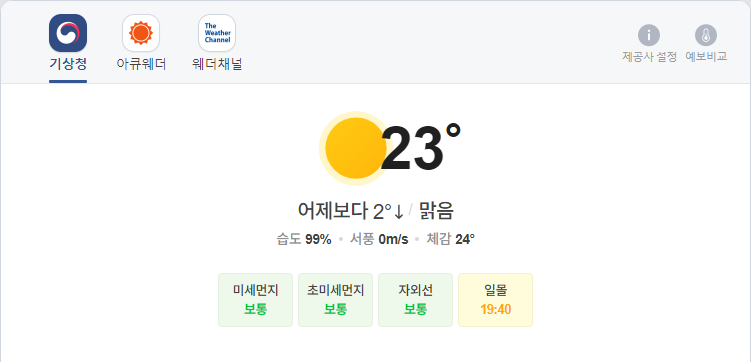
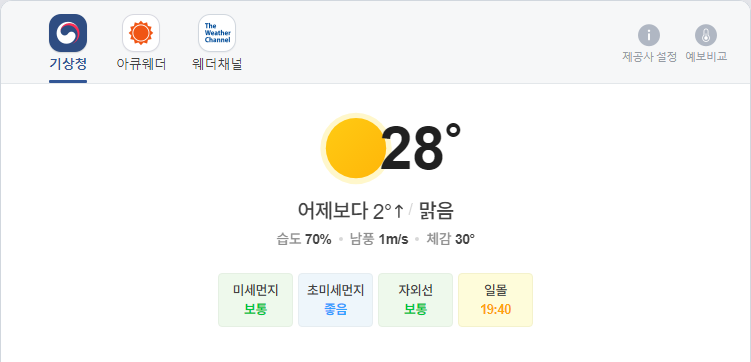
update result

diff --git a/README.md b/README.md
@@ -1,5 +1,5 @@
-##  2021-08-03 05:55:24   화요일 
-##### 날씨   -   어제보다 2° 낮아요맑음  
+##  2021-08-03 09:17:23   화요일 
+##### 날씨   -   어제보다 2° 높아요맑음  
 <center><img src="../img/naver_weather_week.png"></center>
 ----
 ----
@@ -17,46 +17,46 @@
 <tr align = "right" > <td>NASDAQ</td><td>14,681.07</td><td>8.39</td><td><font size="3" color="red" >0.06%</font></td><td><font size="3" color="black">0</font></td><td><font size="3" color="black">0</font></td><td>0</td>  </tr>
 <tr align = "right" > <td>S&P</td><td>4,387.16</td><td>-8.1</td><td><font size="3" color="blue" >-0.18%</font></td><td><font size="3" color="black">0</font></td><td><font size="3" color="black">0</font></td><td>0</td>  </tr>
 <tr align = "right" > <td>SHANHAI</td><td>3,464.29</td><td>66.93</td><td><font size="3" color="red" >1.97%</font></td><td><font size="3" color="black">0</font></td><td><font size="3" color="black">0</font></td><td>0</td>  </tr>
-<tr align = "right" > <td>INDIA</td><td>52,950.63</td><td>297.56</td><td><font size="3" color="red" >0.57%</font></td><td><font size="3" color="black">0</font></td><td><font size="3" color="black">0</font></td><td>0</td>  </tr>
+<tr align = "right" > <td>INDIA</td><td>52,950.63</td><td>363.79</td><td><font size="3" color="red" >0.69%</font></td><td><font size="3" color="black">0</font></td><td><font size="3" color="black">0</font></td><td>0</td>  </tr>
 </table>
 ----
 ##### 시장
 <table border="1" bordercolor="blue" align = "center" >
 <tr align = "right" > <td>Item</td><td>Price</td><td>Diff</td><td>Rate</td><td>Buy</td><td>Sell</td><td>...</td>  </tr>
-<tr align = "right" > <td>USD</td><td>1,151.0</td><td>-1.0</td><td><font size="3" color="blue">-0.09%</font></td><td><font size="3" color="black">1,110</font></td><td><font size="3" color="black">0</font></td><td>0</td>  </tr>
-<tr align = "right" > <td>WTI</td><td>73.95</td><td>0.33</td><td><font size="3" color="red">0.44%</font></td><td><font size="3" color="black">29.0</font></td><td><font size="3" color="black">0</font></td><td>0</td>  </tr>
-<tr align = "right" > <td>GOLD</td><td>1,812.0</td><td>-18.6</td><td><font size="3" color="blue">-1.01%</font></td><td><font size="3" color="black">0</font></td><td><font size="3" color="black">0</font></td><td>0</td>  </tr>
+<tr align = "right" > <td>USD</td><td>1,148.0</td><td>-2.1</td><td><font size="3" color="blue">-0.18%</font></td><td><font size="3" color="black">1,110</font></td><td><font size="3" color="black">0</font></td><td>0</td>  </tr>
+<tr align = "right" > <td>WTI</td><td>71.26</td><td>-2.69</td><td><font size="3" color="blue">-3.63%</font></td><td><font size="3" color="black">29.0</font></td><td><font size="3" color="black">0</font></td><td>0</td>  </tr>
+<tr align = "right" > <td>GOLD</td><td>1,818.0</td><td>5.5</td><td><font size="3" color="red">0.3%</font></td><td><font size="3" color="black">0</font></td><td><font size="3" color="black">0</font></td><td>0</td>  </tr>
 </table>
 ----
 ##### 주가
 <table border="1" bordercolor="blue" align = "center" >
 <tr align = "right" > <td>Item</td><td>Price</td><td>Diff</td><td>Rate</td><td>Purchased</td><td>Sell</td><td>Buy</td>  </tr>
-<tr align = "right" > <td>한국 전력</td><td>25,400</td><td>500</td><td><font size="3" color="red">2.01%</font></td><td>25,720</td><td><font size="3" color="black">27,700</font></td><td><font size="3" color="black">20,700</font></td>  </tr>
-<tr align = "right" > <td>삼성엔지니어.</td><td>23,750</td><td>400</td><td><font size="3" color="red">1.71%</font></td><td>18,935</td><td><font size="3" color="black">20,000</font></td><td><font size="3" color="black">8,000</font></td>  </tr>
-<tr align = "right" > <td>CJ CGV</td><td>29,200</td><td>-250</td><td><font size="3" color="blue">-0.85%</font></td><td>34,895</td><td><font size="3" color="black">36,000</font></td><td><font size="3" color="black">0</font></td>  </tr>
-<tr align = "right" > <td>아모레퍼시픽</td><td>220,500</td><td>-1,000</td><td><font size="3" color="blue">-0.45%</font></td><td>235,350</td><td><font size="3" color="black">240,000</font></td><td><font size="3" color="black">130,000</font></td>  </tr>
-<tr align = "right" > <td>한화</td><td>29,950</td><td>100</td><td><font size="3" color="red">0.34%</font></td><td>25,550</td><td><font size="3" color="black">26,250</font></td><td><font size="3" color="black">26,250</font></td>  </tr>
-<tr align = "right" > <td>NAVER</td><td>433,500</td><td>0</td><td><font size="3" color="black">0.0%</font></td><td>147,200</td><td><font size="3" color="black">386,000</font></td><td><font size="3" color="black">286,000</font></td>  </tr>
-<tr align = "right" > <td>LG 화학우</td><td>388,000</td><td>5,500</td><td><font size="3" color="red">1.44%</font></td><td>202,490</td><td><font size="3" color="black">384,000</font></td><td><font size="3" color="black">384,000</font></td>  </tr>
-<tr align = "right" > <td>스튜디오드래.</td><td>92,100</td><td>-100</td><td><font size="3" color="blue">-0.11%</font></td><td>81,243</td><td><font size="3" color="black">85,200</font></td><td><font size="3" color="black">85,200</font></td>  </tr>
-<tr align = "right" > <td>QV미국IT</td><td>31,490</td><td>-80</td><td><font size="3" color="blue">-0.25%</font></td><td>0</td><td><font size="3" color="black">30,000</font></td><td><font size="3" color="black">20,000</font></td>  </tr>
-<tr align = "right" > <td>삼성 전자우</td><td>73,100</td><td>1,000</td><td><font size="3" color="red">1.39%</font></td><td>60,675</td><td><font size="3" color="black">76,000</font></td><td><font size="3" color="black">55,000</font></td>  </tr>
-<tr align = "right" > <td>LS</td><td>71,100</td><td>-1,600</td><td><font size="3" color="blue">-2.2%</font></td><td>71,900</td><td><font size="3" color="black">82,000</font></td><td><font size="3" color="black">60,000</font></td>  </tr>
-<tr align = "right" > <td>한화에어로스.</td><td>54,000</td><td>2,200</td><td><font size="3" color="red">4.25%</font></td><td>25,700</td><td><font size="3" color="black">30,000</font></td><td><font size="3" color="black">24,000</font></td>  </tr>
-<tr align = "right" > <td>한화시스템.</td><td>16,800</td><td>-150</td><td><font size="3" color="blue">-0.88%</font></td><td>16,875</td><td><font size="3" color="black">30,000</font></td><td><font size="3" color="black">14,000</font></td>  </tr>
-<tr align = "right" > <td>카카오</td><td>146,000</td><td>-1,000</td><td><font size="3" color="blue">-0.68%</font></td><td>405,500</td><td><font size="3" color="black">440,000</font></td><td><font size="3" color="orangered">400,000</font></td>  </tr>
-<tr align = "right" > <td>호텔 신라</td><td>92,500</td><td>-1,000</td><td><font size="3" color="blue">-1.07%</font></td><td>88,650</td><td><font size="3" color="black">100,000</font></td><td><font size="3" color="black">70,000</font></td>  </tr>
-<tr align = "right" > <td>S-Oil</td><td>98,400</td><td>100</td><td><font size="3" color="red">0.1%</font></td><td>62,842</td><td><font size="3" color="black">100,000</font></td><td><font size="3" color="black">50,000</font></td>  </tr>
-<tr align = "right" > <td>LG전자</td><td>156,500</td><td>-1,000</td><td><font size="3" color="blue">-0.63%</font></td><td>82,022</td><td><font size="3" color="black">100,000</font></td><td><font size="3" color="black">60,000</font></td>  </tr>
-<tr align = "right" > <td>KT&G</td><td>82,600</td><td>300</td><td><font size="3" color="red">0.36%</font></td><td>79,700</td><td><font size="3" color="black">100,000</font></td><td><font size="3" color="black">70,000</font></td>  </tr>
-<tr align = "right" > <td>지역난방공사</td><td>42,550</td><td>200</td><td><font size="3" color="red">0.47%</font></td><td>43,590</td><td><font size="3" color="black">60,000</font></td><td><font size="3" color="black">30,000</font></td>  </tr>
-<tr align = "right" > <td>맥쿼리인프라</td><td>12,300</td><td>0</td><td><font size="3" color="black">0.0%</font></td><td>12,577</td><td><font size="3" color="black">30,000</font></td><td><font size="3" color="black">10,000</font></td>  </tr>
-<tr align = "right" > <td>KOEDX은행</td><td>7,255</td><td>-55</td><td><font size="3" color="blue">-0.75%</font></td><td>7,578</td><td><font size="3" color="black">8,825</font></td><td><font size="3" color="black">6,225</font></td>  </tr>
-<tr align = "right" > <td>글로벌럭셔리</td><td>18,255</td><td>105</td><td><font size="3" color="red">0.58%</font></td><td>16,302</td><td><font size="3" color="black">20,000</font></td><td><font size="3" color="black">10,000</font></td>  </tr>
-<tr align = "right" > <td>TIRGER200건설</td><td>3,335</td><td>-10</td><td><font size="3" color="blue">-0.3%</font></td><td>3,440</td><td><font size="3" color="black">4,000</font></td><td><font size="3" color="black">3,000</font></td>  </tr>
-<tr align = "right" > <td>KODEXK미래차</td><td>10,815</td><td>10</td><td><font size="3" color="red">0.09%</font></td><td>10,955</td><td><font size="3" color="black">20,000</font></td><td><font size="3" color="black">10,000</font></td>  </tr>
-<tr align = "right" > <td>TIGER글로벌BBIG</td><td>11,595</td><td>230</td><td><font size="3" color="red">2.02%</font></td><td>11,020</td><td><font size="3" color="black">20,000</font></td><td><font size="3" color="black">10,000</font></td>  </tr>
-<tr align = "right" > <td>TIGER퓨처모빌리티</td><td>11,000</td><td>0</td><td><font size="3" color="black">0.0%</font></td><td>10,695</td><td><font size="3" color="black">20,000</font></td><td><font size="3" color="black">10,000</font></td>  </tr>
-<tr align = "right" > <td>한국금융지주</td><td>95,900</td><td>0</td><td><font size="3" color="black">0.0%</font></td><td>0</td><td><font size="3" color="black">82,000</font></td><td><font size="3" color="black">60,000</font></td>  </tr>
+<tr align = "right" > <td>한국 전력</td><td>25,250</td><td>-150</td><td><font size="3" color="blue">-0.59%</font></td><td>25,720</td><td><font size="3" color="black">27,700</font></td><td><font size="3" color="black">20,700</font></td>  </tr>
+<tr align = "right" > <td>삼성엔지니어.</td><td>23,750</td><td>0</td><td><font size="3" color="black">0.0%</font></td><td>18,935</td><td><font size="3" color="black">20,000</font></td><td><font size="3" color="black">8,000</font></td>  </tr>
+<tr align = "right" > <td>CJ CGV</td><td>29,100</td><td>-100</td><td><font size="3" color="blue">-0.34%</font></td><td>34,895</td><td><font size="3" color="black">36,000</font></td><td><font size="3" color="black">0</font></td>  </tr>
+<tr align = "right" > <td>아모레퍼시픽</td><td>219,000</td><td>-1,500</td><td><font size="3" color="blue">-0.68%</font></td><td>235,350</td><td><font size="3" color="black">240,000</font></td><td><font size="3" color="black">130,000</font></td>  </tr>
+<tr align = "right" > <td>한화</td><td>30,050</td><td>100</td><td><font size="3" color="red">0.33%</font></td><td>25,550</td><td><font size="3" color="black">26,250</font></td><td><font size="3" color="black">26,250</font></td>  </tr>
+<tr align = "right" > <td>NAVER</td><td>427,500</td><td>-6,000</td><td><font size="3" color="blue">-1.38%</font></td><td>147,200</td><td><font size="3" color="black">386,000</font></td><td><font size="3" color="black">286,000</font></td>  </tr>
+<tr align = "right" > <td>LG 화학우</td><td>389,000</td><td>1,000</td><td><font size="3" color="red">0.26%</font></td><td>202,490</td><td><font size="3" color="black">384,000</font></td><td><font size="3" color="black">384,000</font></td>  </tr>
+<tr align = "right" > <td>스튜디오드래.</td><td>91,900</td><td>-200</td><td><font size="3" color="blue">-0.22%</font></td><td>81,243</td><td><font size="3" color="black">85,200</font></td><td><font size="3" color="black">85,200</font></td>  </tr>
+<tr align = "right" > <td>QV미국IT</td><td>31,305</td><td>-185</td><td><font size="3" color="blue">-0.59%</font></td><td>0</td><td><font size="3" color="black">30,000</font></td><td><font size="3" color="black">20,000</font></td>  </tr>
+<tr align = "right" > <td>삼성 전자우</td><td>73,900</td><td>800</td><td><font size="3" color="red">1.09%</font></td><td>60,675</td><td><font size="3" color="black">76,000</font></td><td><font size="3" color="black">55,000</font></td>  </tr>
+<tr align = "right" > <td>LS</td><td>70,700</td><td>-400</td><td><font size="3" color="blue">-0.56%</font></td><td>71,900</td><td><font size="3" color="black">82,000</font></td><td><font size="3" color="black">60,000</font></td>  </tr>
+<tr align = "right" > <td>한화에어로스.</td><td>53,300</td><td>-700</td><td><font size="3" color="blue">-1.3%</font></td><td>25,700</td><td><font size="3" color="black">30,000</font></td><td><font size="3" color="black">24,000</font></td>  </tr>
+<tr align = "right" > <td>한화시스템.</td><td>16,750</td><td>-50</td><td><font size="3" color="blue">-0.3%</font></td><td>16,875</td><td><font size="3" color="black">30,000</font></td><td><font size="3" color="black">14,000</font></td>  </tr>
+<tr align = "right" > <td>카카오</td><td>143,000</td><td>-3,000</td><td><font size="3" color="blue">-2.05%</font></td><td>405,500</td><td><font size="3" color="black">440,000</font></td><td><font size="3" color="orangered">400,000</font></td>  </tr>
+<tr align = "right" > <td>호텔 신라</td><td>92,300</td><td>-200</td><td><font size="3" color="blue">-0.22%</font></td><td>88,650</td><td><font size="3" color="black">100,000</font></td><td><font size="3" color="black">70,000</font></td>  </tr>
+<tr align = "right" > <td>S-Oil</td><td>97,000</td><td>-1,400</td><td><font size="3" color="blue">-1.42%</font></td><td>62,842</td><td><font size="3" color="black">100,000</font></td><td><font size="3" color="black">50,000</font></td>  </tr>
+<tr align = "right" > <td>LG전자</td><td>157,000</td><td>500</td><td><font size="3" color="red">0.32%</font></td><td>82,022</td><td><font size="3" color="black">100,000</font></td><td><font size="3" color="black">60,000</font></td>  </tr>
+<tr align = "right" > <td>KT&G</td><td>82,500</td><td>-100</td><td><font size="3" color="blue">-0.12%</font></td><td>79,700</td><td><font size="3" color="black">100,000</font></td><td><font size="3" color="black">70,000</font></td>  </tr>
+<tr align = "right" > <td>지역난방공사</td><td>42,450</td><td>-100</td><td><font size="3" color="blue">-0.24%</font></td><td>43,590</td><td><font size="3" color="black">60,000</font></td><td><font size="3" color="black">30,000</font></td>  </tr>
+<tr align = "right" > <td>맥쿼리인프라</td><td>12,350</td><td>50</td><td><font size="3" color="red">0.41%</font></td><td>12,577</td><td><font size="3" color="black">30,000</font></td><td><font size="3" color="black">10,000</font></td>  </tr>
+<tr align = "right" > <td>KOEDX은행</td><td>7,220</td><td>-35</td><td><font size="3" color="blue">-0.48%</font></td><td>7,578</td><td><font size="3" color="black">8,825</font></td><td><font size="3" color="black">6,225</font></td>  </tr>
+<tr align = "right" > <td>글로벌럭셔리</td><td>18,335</td><td>80</td><td><font size="3" color="red">0.44%</font></td><td>16,302</td><td><font size="3" color="black">20,000</font></td><td><font size="3" color="black">10,000</font></td>  </tr>
+<tr align = "right" > <td>TIRGER200건설</td><td>3,325</td><td>-10</td><td><font size="3" color="blue">-0.3%</font></td><td>3,440</td><td><font size="3" color="black">4,000</font></td><td><font size="3" color="black">3,000</font></td>  </tr>
+<tr align = "right" > <td>KODEXK미래차</td><td>10,840</td><td>25</td><td><font size="3" color="red">0.23%</font></td><td>10,955</td><td><font size="3" color="black">20,000</font></td><td><font size="3" color="black">10,000</font></td>  </tr>
+<tr align = "right" > <td>TIGER글로벌BBIG</td><td>11,580</td><td>-15</td><td><font size="3" color="blue">-0.13%</font></td><td>11,020</td><td><font size="3" color="black">20,000</font></td><td><font size="3" color="black">10,000</font></td>  </tr>
+<tr align = "right" > <td>TIGER퓨처모빌리티</td><td>11,040</td><td>40</td><td><font size="3" color="red">0.36%</font></td><td>10,695</td><td><font size="3" color="black">20,000</font></td><td><font size="3" color="black">10,000</font></td>  </tr>
+<tr align = "right" > <td>한국금융지주</td><td>97,900</td><td>2,000</td><td><font size="3" color="red">2.09%</font></td><td>0</td><td><font size="3" color="black">82,000</font></td><td><font size="3" color="black">60,000</font></td>  </tr>
 </table>
 ----
